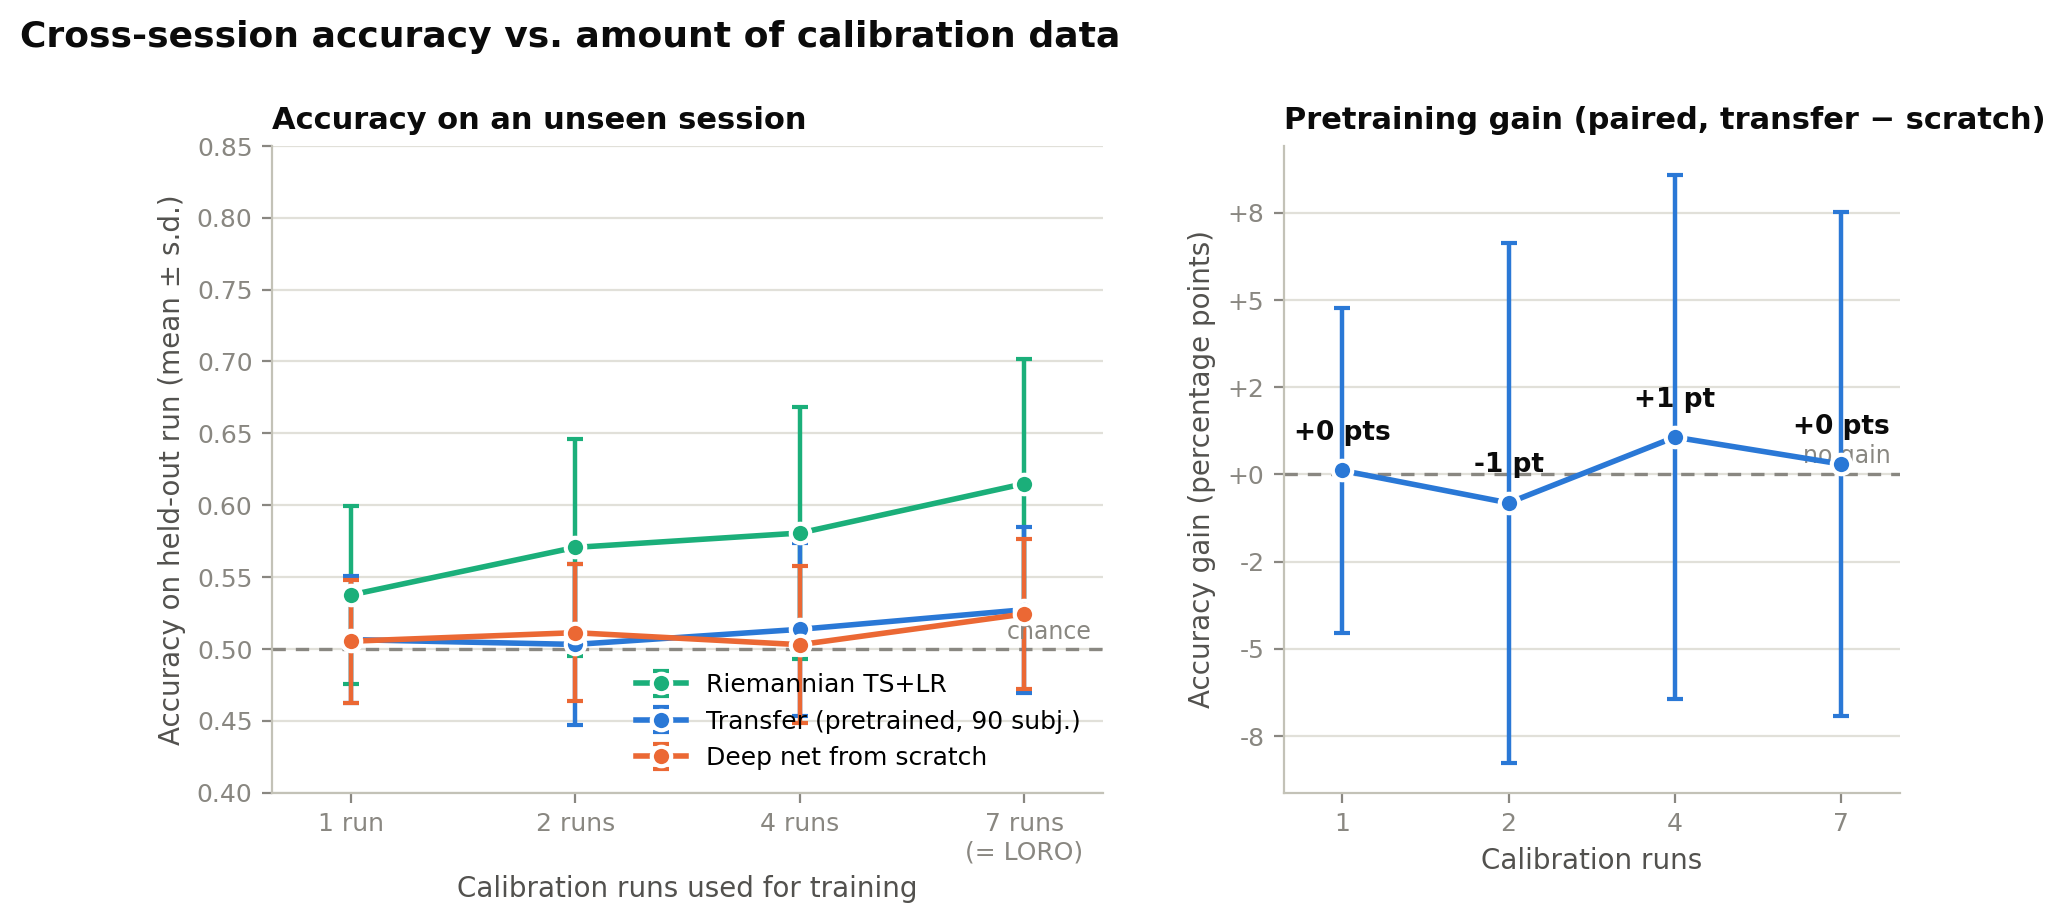
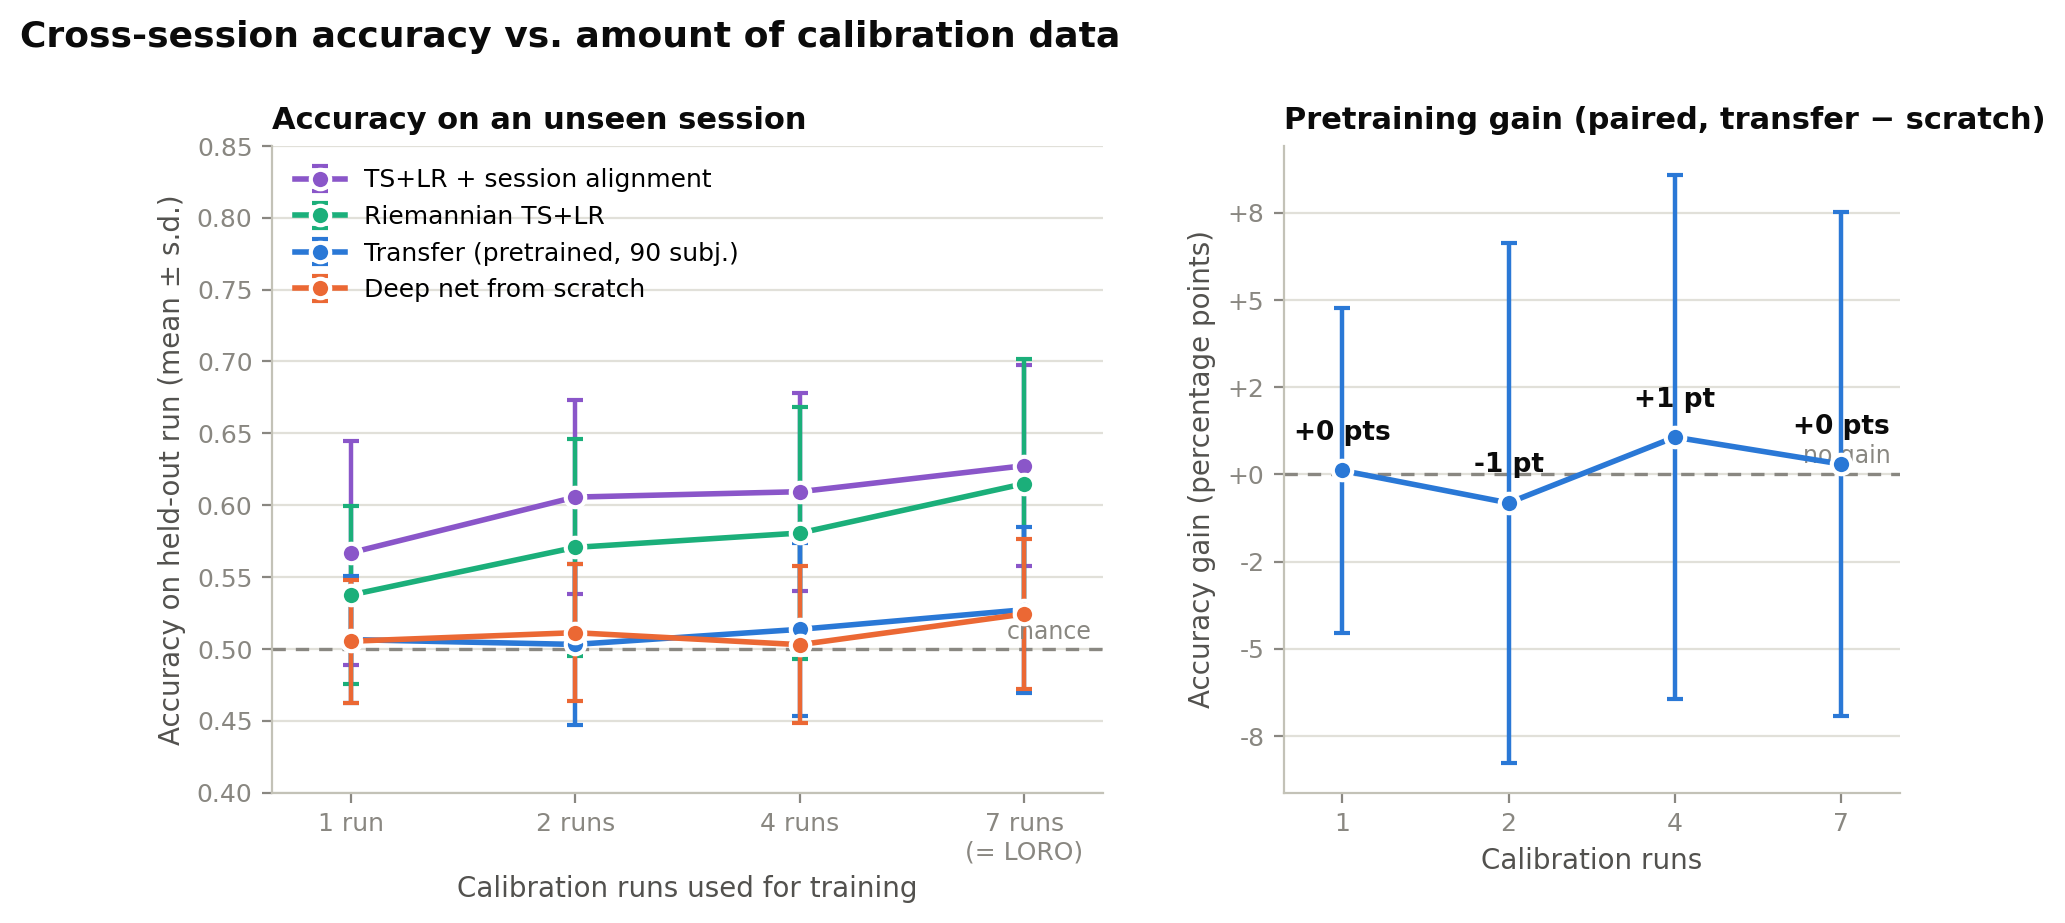
README + figures: aligned TS+LR as the headline method
Session-aligned filter-bank TS+LR (frontal channels dropped) added to
both results figures and the results table: 63% LORO, 57% from a single
calibration run (one aligned run matches 2-4 unaligned runs). Findings
section covers the paired improvement sweep: signal lives in 0.5-2.0s,
frontal channels hurt generalization, ERD lateralization flips across
sessions (electrode repositioning), CSD no help, aligned deep transfer
55.5% still trails classical.

diff --git a/scripts/generate_report_figures.py b/scripts/generate_report_figures.py
@@ -48,14 +48,16 @@ MUTED = "#898781"      # axis labels / ticks
 GRID = "#e1e0d9"       # hairline gridlines
 BASELINE = "#c3c2b7"   # axis spines
 SERIES = {             # color follows the entity across every figure
-    "transfer": "#2a78d6",  # blue
-    "scratch": "#eb6834",   # orange
-    "ts_lr": "#1baf7a",     # aqua
+    "transfer": "#2a78d6",       # blue
+    "scratch": "#eb6834",        # orange
+    "ts_lr": "#1baf7a",          # aqua
+    "ts_lr_aligned": "#8a56c9",  # violet
 }
 LABELS = {
     "transfer": "Transfer (pretrained, 90 subj.)",
     "scratch": "Deep net from scratch",
     "ts_lr": "Riemannian TS+LR",
+    "ts_lr_aligned": "TS+LR + session alignment",
 }
 CLASS_COLORS = {"Left": "#2a78d6", "Right": "#eb6834"}
 
@@ -132,7 +134,18 @@ def v2_rows(df):
     v2["train_key"] = v2["notes"].str.extract(r"train_runs=\[([^\]]*)\]")[0]
     deep = v2[(v2["recipe"] == "dec") & (v2["filter"] == "fir")]
     classical = v2[v2["mode"] == "ts_lr"]
-    return pd.concat([deep, classical], ignore_index=True)
+
+    # Aligned TS+LR (session-wise Riemannian recentering + filter bank + frontal
+    # channels dropped) from the improvement sweep; same paired draws as v2.
+    imp = df[df["split"] == "improvement_v1"].copy()
+    imp["arm"] = imp["notes"].str.extract(r"arm=([^;\"]+)")
+    aligned = imp[imp["arm"] == "ts_stack2_chan"].copy()
+    aligned["mode"] = "ts_lr_aligned"
+    aligned["k"] = aligned["notes"].str.extract(r";k=(\d)").astype(int)
+    aligned["draw"] = aligned["notes"].str.extract(r"draw=(\d)").fillna(0).astype(int)
+    aligned["train_key"] = aligned["notes"].str.extract(r"train_runs=\[([^\]]*)\]")[0]
+
+    return pd.concat([deep, classical, aligned], ignore_index=True)
 
 
 # ---------------------------------------------------------------- figure 1: LORO
@@ -153,7 +166,7 @@ def fig_loro(df):
     )
 
     x = np.arange(len(pivot.index))
-    for mode in ["ts_lr", "transfer", "scratch"]:
+    for mode in ["ts_lr_aligned", "ts_lr", "transfer", "scratch"]:
         ax1.plot(x, pivot[mode], "-o", color=SERIES[mode], linewidth=2,
                  markersize=7, markeredgecolor="white", markeredgewidth=1.5,
                  label=LABELS[mode], zorder=3)
@@ -165,9 +178,9 @@ def fig_loro(df):
     ax1.set_xlabel("Held-out run")
     ax1.set_ylabel("Accuracy on held-out run")
     ax1.set_title("Accuracy by held-out run", loc="left")
-    ax1.legend(loc="lower left", fontsize=9, handlelength=1.4)
+    ax1.legend(loc="upper center", fontsize=9, handlelength=1.4, ncol=2)
 
-    order = ["ts_lr", "transfer", "scratch"]
+    order = ["ts_lr_aligned", "ts_lr", "transfer", "scratch"]
     ypos = np.arange(len(order))[::-1]
     for yp, mode in zip(ypos, order):
         m, s = summary.loc[mode, "mean"], summary.loc[mode, "std"]
@@ -223,7 +236,7 @@ def fig_calibration(df):
         1, 2, figsize=(10.5, 4.2), gridspec_kw={"width_ratios": [1.35, 1.0], "wspace": 0.25}
     )
 
-    for mode in ["ts_lr", "transfer", "scratch"]:
+    for mode in ["ts_lr_aligned", "ts_lr", "transfer", "scratch"]:
         sub = agg[agg["mode"] == mode].sort_values("k")
         x = [xpos[k] for k in sub["k"]]
         ax1.errorbar(x, sub["mean"], yerr=sub["std"], color=SERIES[mode], fmt="-o",
@@ -238,7 +251,7 @@ def fig_calibration(df):
     ax1.set_xlabel("Calibration runs used for training")
     ax1.set_ylabel("Accuracy on held-out run (mean ± s.d.)")
     ax1.set_title("Accuracy on an unseen session", loc="left")
-    ax1.legend(loc="lower right", fontsize=9)
+    ax1.legend(loc="upper left", fontsize=9)
 
     from matplotlib.ticker import FuncFormatter
 

diff --git a/README.md b/README.md
@@ -20,18 +20,27 @@ The deep model is a hybrid CNN–Transformer; “transfer” means it was pretra
 from the [PhysioNet EEG Motor Movement/Imagery dataset](https://physionet.org/content/eegmmidb/1.0.0/)
 and fine-tuned on the self-recorded data.
 
-| Evaluation (both cross-session) | Riemannian TS+LR | Transfer (pretrained) | Deep net from scratch |
-|---|---|---|---|
-| Leave-one-run-out (7 calibration runs) | **62% ± 9** | 53% ± 6 | 52% ± 5 |
-| 2 calibration runs (~190 trials) | **57% ± 8** | 50% ± 6 | 51% ± 5 |
+| Evaluation (both cross-session) | TS+LR + session alignment | Riemannian TS+LR | Transfer (pretrained) | Deep net from scratch |
+|---|---|---|---|---|
+| Leave-one-run-out (7 calibration runs) | **63% ± 7** | 62% ± 9 | 53% ± 6 | 52% ± 5 |
+| 1 calibration run (~95 trials) | **57% ± 8** | 54% ± 6 | 50% ± 5 | 51% ± 4 |
 
 Numbers are from a leakage-controlled protocol (single pinned environment,
 `requirements/lock-gpu.txt`): checkpoint selection uses an inner validation split carved
 from the *training* runs, each held-out run is evaluated exactly once, and deep results
 average over 3 seeds.¹ Cross-session, the classical Riemannian tangent-space + logistic
-regression baseline is the only method clearly above chance on this dataset; the deep
+regression pipelines are the only methods clearly above chance on this dataset; the deep
 models — pretrained or not — do not generalize across sessions with this recipe, even
 though transfer clearly helps *within* a session (59% vs 53% on a random split).
+
+The best method recenters each session's trial covariances at that session's own mean
+(Riemannian session alignment) before the tangent-space projection, adds filter-bank
+sub-band features (8–12/12–16/16–22/22–30 Hz), and drops the four frontal-most channels.
+Each choice was validated on paired train/test draws against the plain baseline
+(+2.8 points overall, Wilcoxon p = 0.003, n = 56 paired configurations). Alignment needs
+no labels from the new session, so it works online. Its biggest effect is where it matters
+practically — the low-calibration end: **one aligned calibration run matches what the
+unaligned baseline needs 2–4 runs to reach**, roughly halving setup time for a new session.
 
 **Cross-session generalization** (train on 7 runs, test on the held-out 8th: the hard, honest
 split for BCI, since session-to-session drift is the main failure mode):
@@ -41,12 +50,29 @@ split for BCI, since session-to-session drift is the main failure mode):
 **How much calibration data does a new session need?** For each held-out run, models were
 trained on k runs drawn at random from the other 7 (two draws per test run, identical draws
 for every method and seed, so comparisons are paired) and tested on the held-out run. The
-classical baseline improves steadily with calibration data (54% → 62%); the deep models stay
-near chance at every k, and the paired pretraining gain (transfer − scratch on identical
-train/test splits) is zero within noise. A frozen-backbone / low-learning-rate fine-tuning
-variant did no better.
+classical pipelines improve steadily with calibration data (57% → 63% aligned); the deep
+models stay near chance at every k, and the paired pretraining gain (transfer − scratch on
+identical train/test splits) is zero within noise. A frozen-backbone / low-learning-rate
+fine-tuning variant did no better; per-session Euclidean alignment of the raw trials lifts
+transfer to 55.5% at LORO — a real (+1 pt paired) but modest effect that still trails the
+classical pipeline.
 
 ![Cross-session accuracy vs. amount of calibration data](docs/figures/calibration_curve.png)
+
+**Other findings from the improvement sweep** (840 paired fits, `split=improvement_v1` in
+the metrics CSV):
+
+- **The usable signal lives in 0.5–2.0 s post-cue.** These sessions hold 2.5 s of imagery
+  per trial, but extending the analysis window to 2.5 s *costs* 4.9 points paired — class
+  separability collapses in the final half-second, when the on-screen feedback ends.
+- **Frontal channels hurt generalization.** Dropping Fp1/Fp2/F7/F8 helps (+1.1 paired)
+  — consistent with the frontally-dominated CSP patterns below: ocular activity carries
+  class-correlated variance within a session that does not survive session drift.
+- **Session drift is partly physical.** μ-band ERD lateralization at C3/C4 varies strongly
+  across sessions and even reverses sign in two of them (`scripts/diagnose_runs.py`),
+  pointing at electrode repositioning between sessions as a major drift source — exactly
+  the kind of spatial shift covariance alignment can partially absorb.
+- A surface Laplacian (CSD) did not help (−1.2 paired).
 
 ¹ *Earlier versions of this repo reported higher cross-session numbers; those were affected
 by issues in how accuracy was computed and have been superseded by the protocol above.*
@@ -98,6 +124,8 @@ scripts/
   generate_report_figures.py  # regenerates docs/figures/ from committed data
   run_calibration_sweep.py    # cross-session calibration experiment (v1, superseded)
   run_calibration_sweep_v2.py # cross-session calibration sweep behind the README numbers
+  run_improvement_sweep.py    # paired sweep: alignment / filter bank / window / channels
+  diagnose_runs.py            # per-session signal-quality diagnostics
 configs/
   default.yaml
 requirements/
